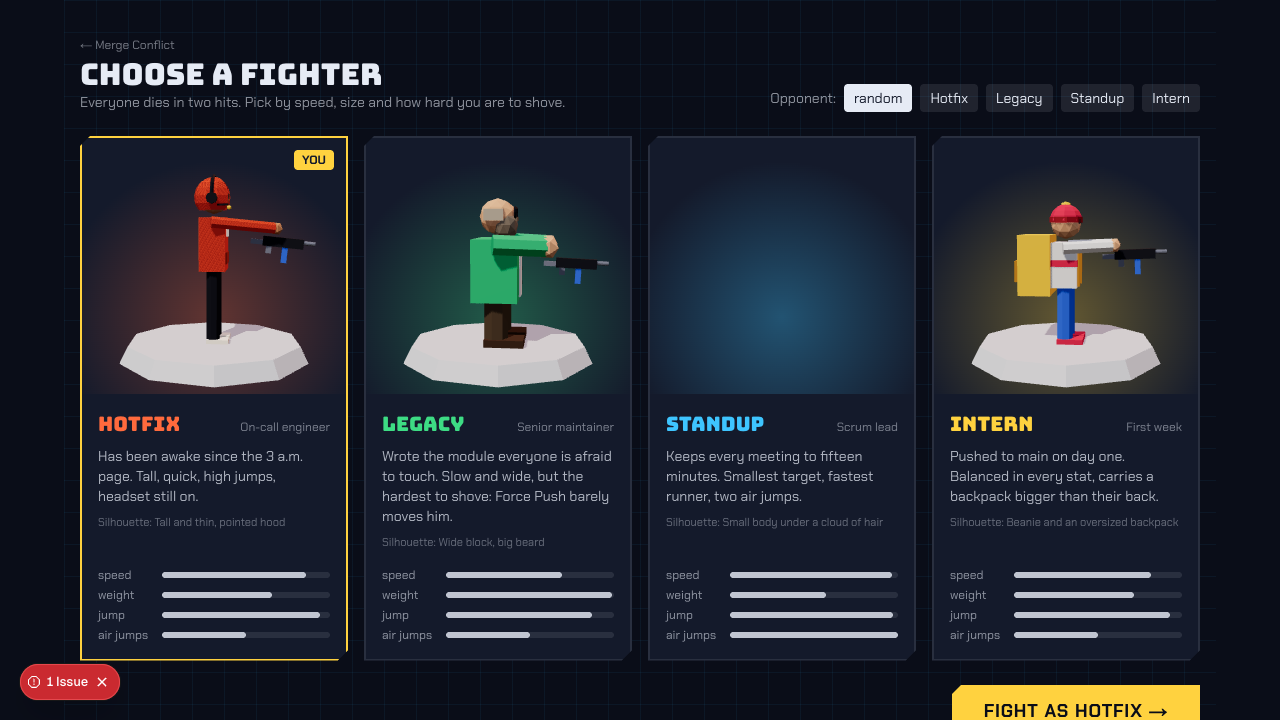
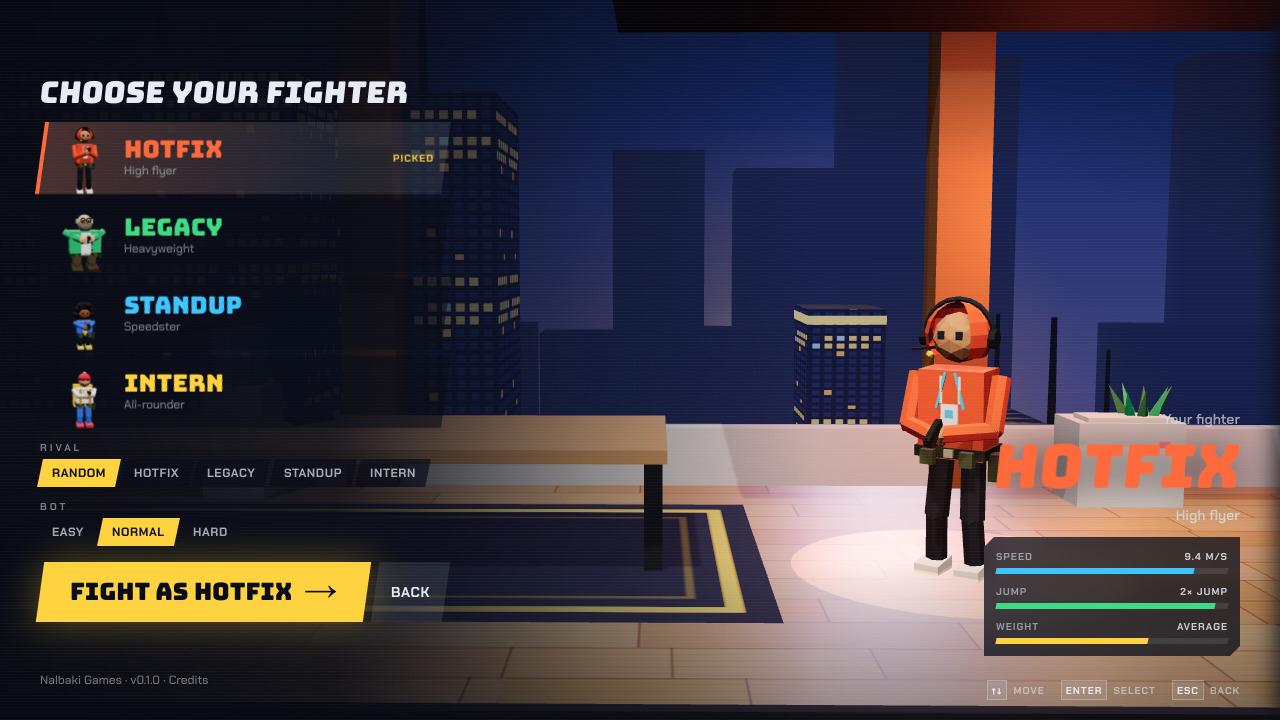
Docs: /characters is the menu fighter select, 2P sit keys V and M; owner decisions logged

diff --git a/docs/collab/LOG.md b/docs/collab/LOG.md
@@ -40,3 +40,4 @@
   Not verified: the 1.5 ghosting test on real keyboards (needs a person: hold A W F H + ← ↑ ; K on a MacBook keyboard and a cheap USB keyboard and note dropped keys), Firefox / Safari / Edge, Windows Sticky Keys, the CrazyGames QA iframe, real gamepads (only an emulated standard pad), real AZERTY (layout map emulated). Pre-existing, also in 1P: at 1280x720 the `FLOOR 42 · open office` pill overlaps `FIRST TO N` under the score.
 - 2026-11-23 — R-010 done (CD). Review of the local 2P build against local-2p.md section 10, from the shots in docs/collab/shots/local-2p/ (1440 states 02-22 at full size, 1280 06/09/10, 1024 06, AZERTY key card, phone menu and pad select, portal match) plus a grep of the mute binding (KeyM by code, no clash with AZERTY P2 Shoot = M). Verdict: accepted with changes. Deviations (a)-(j) accepted. New: F-009 (P1) select keeps name/description when locked, READY stamp takes the Ready button's slot; F-010 (P1) under 800 px tall the floor pill fades out in play, FIRST TO N gets shadow + cream 70 % (1P too); F-011 (P1) P1 spawns left, P2 right at match start; F-012 (P1) touch-only devices need two pads for 2 PLAYER, new strings `Two pads, two fighters`, `Pad disconnected`, `Stick move · A ready`; F-013 (P2) hide menu fighter behind the select; F-014 (P2) rematch tick chips reserved width + contrast; F-015 (P2) even HUD dim in 2P pause, matching key card arrows. Not seen: motion, sound, < 1024 select, real keyboards/pads/browsers, CrazyGames iframe.
 - 2026-11-23 — R-010 review F-009..F-015 fixed (Engineering). F-009: the 2P select keeps name + description in every state; the Ready button slot (fixed 56 px, 44 px under 500 px tall) becomes the READY stamp when locked, a click on the stamp unlocks (hover 85 %), the 1.06x card pop stays; no height change between unlocked and locked. F-010: under 800 px tall the `FLOOR 42 · open office` pill fades out (200 ms) when the round starts and is back in pause and results (1P and 2P; 1440x900 unchanged, measured opacity 1); `FIRST TO N` is cream 70 % with a 0 1px 2px shadow at all sizes. F-011: 2P starts (and rematches) put P1 on the left spawn and P2 on the right of the same pair; respawns, 1P and online unchanged (test over 60 seeds; vs-bot sides still vary). F-012: on touch-only devices 2 PLAYER needs two pads (sub `Two pads, two fighters`; pad 1 = P1, pad 2 = P2), one pad keeps it hidden; a pad lost mid-match on a touch-only device pauses at once with `Pad disconnected`; pad-driven panels show `Stick move · A ready`. Keyboard devices unchanged (one pad = P2). F-013: the menu fighter, its gun, rim light and floor glow (3D disc and the CSS accent glow) hide while the 2P select is open and come back on Esc. F-014: the Rematch tick chips keep their ticked width from the start (button 408.8 px idle and with one tick); idle chips are ink 45 % with a 1 px ink 30 % outline. F-015: 2P pause adds a flat 55 % ink layer over the whole HUD under the pause menu (1P unchanged); the key card draws all four arrows with one line-arrow glyph. (j) wired: telemetry now files 2P rounds as mode `local2p` (win / lose read from P1's side). Tests 421 passing (show2PMenuItem by pad count, P1-left start), tsc, `next build`, `build:portal` (checks passed, 0.51 MB) pass. Shots (1280x720 fresh, plus 1440x900 rerun): d1280x720-06-select-both-ready, -10-match-hud, -11-pause, -14-results-rematch-p1-tick, -07-keycard-lit; touch 844x390: p844x390-0pad-01-menu, -1pad-01-menu (no 2 PLAYER), -2pad-01-menu, -2pad-02-select-p1-ready, -2pad-03-keycard-pads, -2pad-04-match, -2pad-05-pad-disconnected. Measured: P1 starts left in every run; two emulated pads moved P1 +1.5 m and P2 -3.6 m together; unplugging pad 2 paused with `Pad disconnected`. Older p844x390-pad-* shots are from the one-pad rule and are superseded. Note: the length hint under the chip still reads `G / L to change` on a pad-only device (pads use X or LB); say if you want a pad variant.
+- 2026-11-23 — owner decision 2026-11-23 (Reis, implemented directly; the CD may review the copy later). (1) One fighter screen: the old standalone page at /characters (CharacterSelect.tsx, turntable gallery, never linked from the menu) is removed with its now-unused pieces (MenuShell's page shell, hero, cards and steps; render/gallery.ts). /characters now renders the main menu opened on its own fighter select. PLAY and FIGHTER push /characters onto the history; Esc or Back returns to / (history back when we pushed it, replaceState when /characters was opened directly); the browser's Back and Forward follow. The result screen's "Change fighter" links to /characters (old /?select links still work). Portal build: #/characters opens the same screen; in-menu moves there keep the hash unchanged (the portal re-mounts a screen on every hash change). The 2P select keeps /?2p (no path of its own). README "Practice vs bot" link → "Pick a fighter", docs/characters.png re-shot from the new screen, TECHNICAL.md updated. (2) 2-player sit keys: P1 V, P2 M, the 1P crouch-anywhere action (walkways too); S / ↓ unchanged. M is mute elsewhere, so the 2P maps allow KeyM only on P2 Sit (refused for any other action, cleared rather than handed to another action in a swap) and M does not mute in a 2P match (mute stays in Pause → Settings; 1P keeps M = mute). Added to the 2 Player rebinding table (`Sit`), the key card (V under F, M under K, label `Sit`), both HUD key strips (`V sit` / `M sit`), How to play and the README table. Pads: stick down still crouches/drops (no separate sit button). New copy: `Sit`, `sit` (CD may want another word). Tests 424 passing (V/M routing, KeyM allowed only for P2 Sit incl. swaps and saved maps, 16 distinct default keys, controls swallow and route M). Headless (1280x720): /characters loads the fighter select; menu FIGHTER → /characters, Esc → /; browser Back → / with the main menu, Forward → /characters; in a 2P match V + M held crouched both fighters (crouch 1, 1; 0, 0 after release) and settings.audio.muted stayed false. Portal #/characters opens the fighter select. tsc, `next build` (/characters static), `build:portal` (checks passed, 0.51 MB) green. Shots: docs/collab/shots/local-2p/owner-d1280x720-01..04.

diff --git a/README.md b/README.md
@@ -6,7 +6,7 @@
 
 A game by **[Nalbaki Games](https://nalbakigames.com)**.
 
-### [▶ Play now](https://floor42.nalbakigames.com/play) · [Practice vs bot](https://floor42.nalbakigames.com/characters) · [Studio](https://nalbakigames.com) · [Last Commit Standing](https://lastcommit.nalbakigames.com)
+### [▶ Play now](https://floor42.nalbakigames.com/play) · [Pick a fighter](https://floor42.nalbakigames.com/characters) · [Studio](https://nalbakigames.com) · [Last Commit Standing](https://lastcommit.nalbakigames.com)
 
 **A fast side-on office shootout in the browser. First to five KOs takes the merge.**<br>
 Your gun **aims itself**, so the whole game is moving, jumping and timing your shots.
@@ -43,7 +43,7 @@ A rocket crosses the whole office in a second.
 <table>
   <tr>
     <td><img alt="Title screen" src="docs/home.png"></td>
-    <td><img alt="Character select with four fighters on turntables" src="docs/characters.png"></td>
+    <td><img alt="Fighter select in the main menu over the live office" src="docs/characters.png"></td>
   </tr>
 </table>
 
@@ -57,7 +57,7 @@ npm run dev
 Open http://localhost:3000.
 
 - `/play`: **online 1v1**. *Invite a friend* gives you a link to send; *Quick match* pairs you with whoever is waiting. Rematch with Enter.
-- `/characters`: practice against a bot (`/arena?p1=legacy&p2=standup&bot=hard`, add `&demo` to watch bot against bot)
+- `/characters`: the main menu's fighter select (FIGHTER and PLAY open it; Esc or Back returns to `/`), then fight the bot (`/arena?p1=legacy&p2=standup&bot=hard`, add `&demo` to watch bot against bot)
 
 The browser connects to the game server on Fly.io by default. To run your own server locally:
 
@@ -98,12 +98,13 @@ If your rival's connection drops, the game holds for 20 seconds while they recon
 | move | A / D | ← / → |
 | jump, double jump, wall-kick | W | ↑ |
 | crouch, drop through a walkway | S | ↓ |
+| sit (crouch anywhere, walkways too) | V | M |
 | shoot (hold for automatic fire, auto-aim always on) | F | ; |
 | Force Push (throws the bomb while you carry one) | G | L |
 | dash | H | K |
 | pause (either player) | Esc | Esc |
 
-Keys are bound by physical position, so they stay put on AZERTY or QWERTZ, and the key card shows your layout's letters. Pick up and reload are automatic in 2 player: walking onto a gun takes it at once with the pistol or a nearly empty gun, otherwise stand on it for half a second. Space, Shift, Enter, Tab, Ctrl, Alt, the numpad, ' and / are never used in 2 player. Both maps can be changed in Settings → Controls → 2 Player.
+Keys are bound by physical position, so they stay put on AZERTY or QWERTZ, and the key card shows your layout's letters. Pick up and reload are automatic in 2 player: walking onto a gun takes it at once with the pistol or a nearly empty gun, otherwise stand on it for half a second. Space, Shift, Enter, Tab, Ctrl, Alt, the numpad, ' and / are never used in 2 player. M is P2's sit key there, so it does not mute in a 2 player match (mute from Pause → Settings). Both maps can be changed in Settings → Controls → 2 Player.
 
 On the fighter select each player moves their own cursor, presses their Shoot key to lock in, and either Push key changes the match length. Before the first match a key card lights every key while it is held: if one stays dark, that keyboard can't take the combo, so move it in Settings. Gamepads: one pad plays P2, two pads play P1 and P2 (stick or d-pad move, A jump, X or RT shoot, B or LB push, RB or LT dash, Start pause). On a phone or tablet (no keyboard) 2 PLAYER only shows while two gamepads are connected, and unplugging one mid-match pauses the game.
 

diff --git a/docs/TECHNICAL.md b/docs/TECHNICAL.md
@@ -30,13 +30,12 @@ Floor 42 is a side-on, 1v1 office shootout that runs in the browser.
 src/
   app/                     Next.js App Router: pages only, no game logic
     page.tsx               title screen
-    characters/page.tsx    character select (renders CharacterSelect)
+    characters/page.tsx    the main menu opened on its fighter select (same screen as FIGHTER)
     play/page.tsx          online lobby (?room=<id> joins an invite)
     arena/page.tsx         reads ?p1= &p2= &demo &bot= and renders ArenaGame
     layout.tsx             fonts (Bungee, Chakra Petch), metadata
   components/
     ArenaGame.tsx          React shell: canvas + HUD overlay + hidden input
-    CharacterSelect.tsx    turntable gallery of the four fighters
     OnlineLobby.tsx        /play: invite link, quick match, owns the room connection
   game/
     sim/                   THE RULES. Pure TypeScript, no DOM, no Three.js
@@ -714,7 +713,7 @@ Reader question: what if nobody else is online?
 - **Waiting screen.** While a quick match waits, "Nobody yet? Play the bot instead" is shown (`OnlineLobby.tsx:186-188`).
 - **Both are plain links** to `/arena?p1=<your character>&bot=normal`. `/arena` is the existing single-player page: `src/app/arena/page.tsx:20` accepts `bot=easy|normal|hard` and falls back to `normal`. The character picked in the lobby is carried in `p1`; the bot's character is random.
 - **Leaving the room.** The links leave `/play`, so the lobby's unmount effect runs and calls `room.leave()` (`OnlineLobby.tsx:41-47`, section 10). Nobody can join an empty match you walked away from. No new code was needed for that; the comment at the waiting link says so.
-- The character-select page (`CharacterSelect.tsx:87`) still starts the bot at `easy`; the online page starts it at `normal`.
+- The old standalone character-select page is gone (2026-11-23): /characters is the menu's fighter select, which starts the bot at `normal` like the online page.
 
 ### 13.2 Sound: guns bus, defaults and sliders (`bfed1d6`)
 
